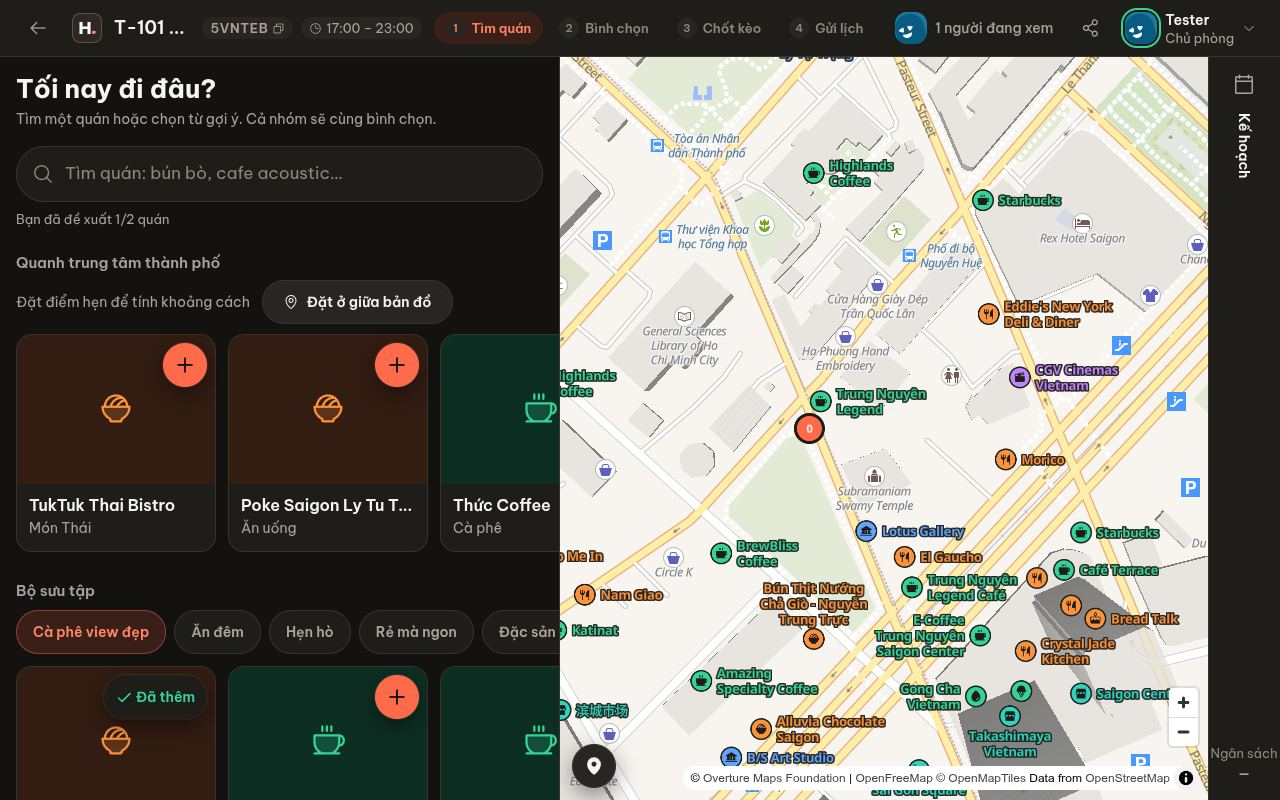
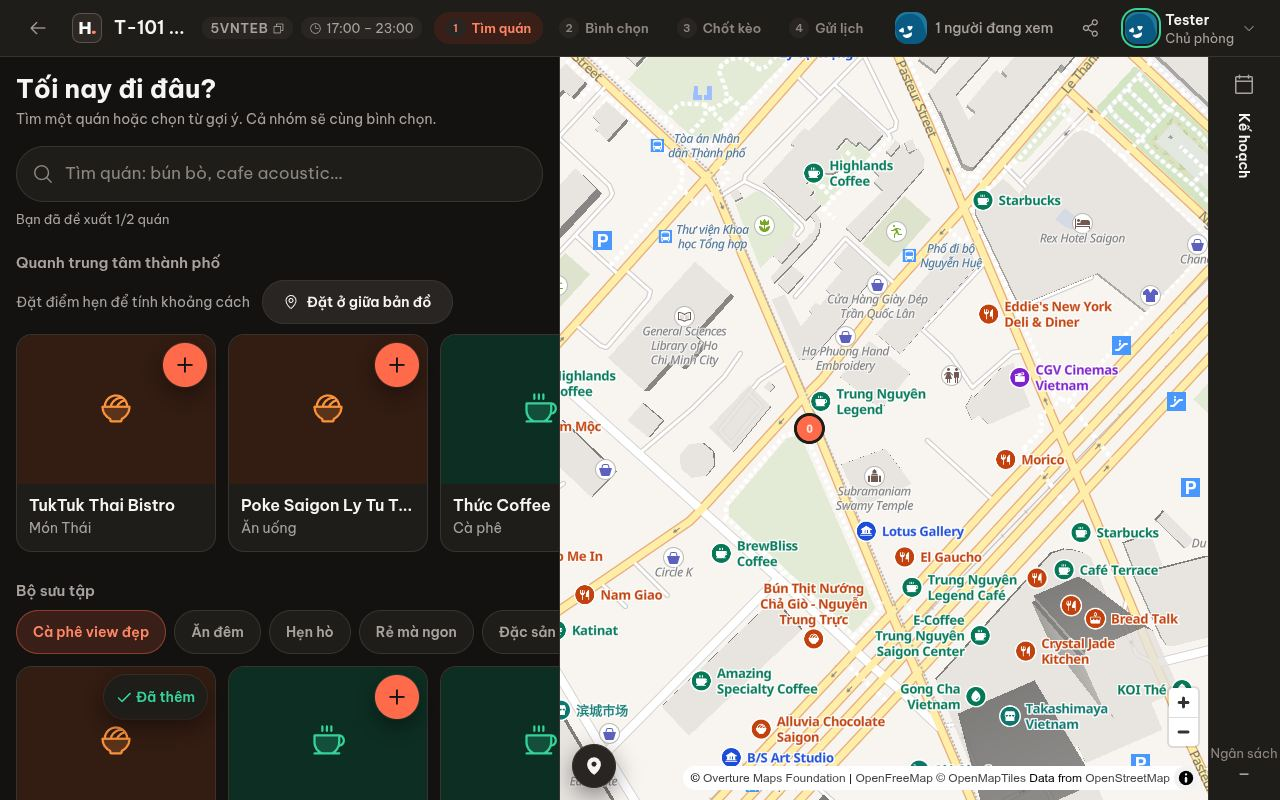
fix(T-101): lop quan giu bang mau sang ca theme toi (nguoi dung chot), anh dark chup lai; them task T-104 lam sach du lieu quan

diff --git a/frontend/src/components/map/PoiLayer.ts b/frontend/src/components/map/PoiLayer.ts
@@ -203,8 +203,20 @@ export function poiLayerFilters(selectedId: string | null): Record<string, Filte
   };
 }
 
-function themeColors() {
-  return { category: getDynamicCategoryColors(), surface: getCssColor('--color-surface', '#FFFFFF') };
+/**
+ * Màu lớp quán trên bản đồ: LUÔN bảng màu sáng (màu loại đậm, glyph + viền chữ trắng) ở cả hai theme — nền Liberty
+ * không đổi theo theme nên chữ sáng viền tối ở theme tối trông nặng (người dùng chốt "giữ trắng" 2026-11-15).
+ */
+const MAP_COLORS = { category: CATEGORY_COLORS, surface: '#FFFFFF' };
+
+/** Màu chữ tên quán theo category (bảng sáng cố định). */
+function mapTextColor(): ExpressionSpecification {
+  return [
+    'match',
+    ['get', 'category'],
+    ...Object.entries(CATEGORY_COLORS).flat(),
+    CATEGORY_COLORS.OTHER,
+  ] as unknown as ExpressionSpecification;
 }
 
 export interface InstallPoiLayerOptions {
@@ -218,12 +230,12 @@ export function installPoiLayer(
   options: InstallPoiLayerOptions = {},
 ): void {
   hideBasemapPois(map);
-  const colors = themeColors();
+  const colors = MAP_COLORS;
   registerPoiImages(map, colors);
 
   map.addSource(POI_SOURCE, { type: 'geojson', data: poisToGeoJSON([]) });
   const filters = poiLayerFilters(null);
-  const textColor = buildColorExpression();
+  const textColor = mapTextColor();
 
   map.addLayer({
     id: POI_DOT_LAYER,
@@ -347,16 +359,9 @@ export function highlightPoi(map: MapLibreMap, externalId: string | null): void 
 }
 
 /**
- * Đổi giao diện sáng/tối: dựng lại ảnh icon theo CSS variables hiện tại + màu chữ/halo.
+ * Đổi giao diện sáng/tối: lớp quán giữ bảng màu sáng cố định (`MAP_COLORS`) nên không có gì để đổi. Giữ hàm để
+ * MapView gọi chung với các lớp khác; nếu sau này nền bản đồ có bản tối thì dựng lại ảnh + màu chữ ở đây.
  */
 export function updatePoiLayerTheme(map: MapLibreMap): void {
-  if (!map.isStyleLoaded()) return;
-  const colors = themeColors();
-  registerPoiImages(map, colors);
-  const textColor = buildColorExpression();
-  for (const layer of [POI_ICON_LAYER, POI_SELECTED_LAYER]) {
-    if (!map.getLayer(layer)) continue;
-    map.setPaintProperty(layer, 'text-color', textColor);
-    map.setPaintProperty(layer, 'text-halo-color', colors.surface);
-  }
+  void map;
 }

diff --git a/frontend/src/components/map/poiIcons.ts b/frontend/src/components/map/poiIcons.ts
@@ -4,7 +4,8 @@ import type { PlaceCategory, PoiKind } from '../../types';
 /**
  * Ảnh icon cho lớp quán trên bản đồ (T-101, MAP-POI §4): dựng lúc chạy từ path SVG Phosphor (bản `fill`,
  * khung 256×256, chép từ `@phosphor-icons/react` 2.1.10 — cùng bộ với `ui/Icon.tsx`) → canvas → `map.addImage`.
- * Vẽ bằng `Path2D` nên đồng bộ, không phải chờ ảnh tải. Đổi theme thì gọi lại `registerPoiImages` (updateImage).
+ * Vẽ bằng `Path2D` nên đồng bộ, không phải chờ ảnh tải. Màu do PoiLayer truyền vào (hiện cố định bảng sáng);
+ * gọi lại `registerPoiImages` với màu mới thì ảnh được `updateImage`.
  */
 
 /** Path Phosphor (weight fill, viewBox 0 0 256 256). */
@@ -119,7 +120,7 @@ export const PIN_H = 38;
 export interface PoiIconColors {
   /** Màu loại theo category (nền vòng/ghim). */
   category: Record<PlaceCategory, string>;
-  /** Màu icon + viền (surface: trắng ở theme sáng, nâu tối ở theme tối — luôn tương phản với màu loại). */
+  /** Màu glyph + viền (trắng). */
   surface: string;
 }
 

diff --git a/frontend/src/__tests__/poi_layer.test.ts b/frontend/src/__tests__/poi_layer.test.ts
@@ -180,6 +180,22 @@ describe('installPoiLayer', () => {
     expect(Object.values(layers).every((l) => l.type === 'symbol')).toBe(true);
   });
 
+  it('màu cố định bảng sáng (chữ viền trắng) dù theme tối', () => {
+    // Theme tối: mọi CSS variable trả màu tối — lớp quán không được đọc theo
+    vi.stubGlobal('window', {});
+    vi.stubGlobal('document', { documentElement: {} });
+    vi.stubGlobal('getComputedStyle', () => ({ getPropertyValue: () => '31 29 26' }));
+    try {
+      const { map, layers } = fakeMap({});
+      installPoiLayer(map, vi.fn());
+      const icon = layers[POI_ICON_LAYER] as unknown as { paint: Record<string, unknown> };
+      expect(icon.paint['text-halo-color']).toBe('#FFFFFF');
+      expect(JSON.stringify(icon.paint['text-color'])).toContain('#C2410C');
+    } finally {
+      vi.unstubAllGlobals();
+    }
+  });
+
   it('bấm: chấm sát điểm bấm thắng icon bên cạnh; icon thắng khi bấm trúng icon', () => {
     const { map, fire } = fakeMap({
       [POI_ICON_LAYER]: [{ id: 'icon', at: [100, 100] }],

diff --git a/docs/phase7/tasks/T-104.md b/docs/phase7/tasks/T-104.md
@@ -1,0 +1,51 @@
+# T-104: Làm sạch dữ liệu quán — sai vị trí, sai loại, trùng mốc lớn
+
+- **Phụ thuộc:** T-100 DONE (T-101 DONE để kiểm bằng ảnh bản đồ) · **Đợt:** sau MVP (làm trước nếu kịp, chỉ đổi snapshot)
+- **Đọc:** `docs/phase7/MAP-POI.md` §3, §8, §9 · `scripts/build_places.py` · `backend/app/domain/patterns/category_detector/osm_mapping.py`
+  (`OVERTURE_KIND`, `overture_kind`, `osm_kind`) · test backend của `build_places`/`osm_mapping`
+- **Model gợi ý:** Opus 5.5 · high · **Ước lượng:** ~120k
+
+## Lỗi đã thấy (người dùng yêu cầu sửa triệt để, 2026-11-15)
+Kiểm trên `places_hcm.json.gz` hiện tại (46 821 quán):
+1. **Sai vị trí.** `ovt:14b02cea-…` "Vincom Center Đồng Khởi" (kind `mall`, score 72, `minzoom` 14) nằm ở **10,848 / 106,775 (Thủ Đức)**,
+   address "Đường Lê Thánh Tôn, Thủ Đức", website `phanngocloi.com` — bản ghi Overture rác. Vincom Đồng Khởi thật ở Q1
+   (72 Lê Thánh Tôn, ~10,778 / 106,702; đã có "Vincom Center" 10,776 / 106,702 và hàng chục quán bên trong ghi "Vincom Đồng Khởi").
+   Vì là mall điểm cao nên hiện ngay từ z14 ở Thủ Đức (ảnh `docs/phase7/screens/map-poi/thuduc-z15-*`).
+2. **Sai loại `supermarket`.** 1 441 quán `supermarket`, **847** có tên không giống siêu thị. Nguồn chính: `grocery_store → supermarket`
+   (`osm_mapping.py` dòng ~99). Ví dụ: Circle K (cửa hàng tiện lợi — MAP-POI §3.1 đã loại), "Cà Phê Ông Bầu", "Hòn Đất Coffee",
+   "Nhan Cafe", "Sinh tố…" (phải là cafe/tea), "The Crescent Mall" (phải là mall), "Chợ Hoa Cau" (chợ — không lấy),
+   L'angfarm/Homefarm/hải sản/yến sào/sữa/đặc sản (cửa hàng chuyên doanh — không phải nơi đi chơi), "Điện Máy Xanh",
+   "Bảo Việt Nhân Thọ", "BRT Việt Nam", "Viễn Thông…", "Công Ty TNHH…" (không phải quán).
+3. **Trùng mốc lớn.** Một mall nhiều bản ghi tên khác nhau vài chục mét: "Vincom Mega Mall - Thao Dien", "TTTM Vincom Mega Mall Thảo Điền,
+   161 Xa Lộ Hà Nội…" (tên là cả địa chỉ), "Vincom Megamall Thảo Điền"; "Vincom Plaza Cộng Hoà" + "Tttm Vincom CỘNg HÒA, 15-17…".
+   Luật gộp T-100 (cùng tên chuẩn hoá < 50 m, tiền tố tên) không bắt được.
+
+## Việc
+- **Không vá tay từng quán là chính** — viết luật trong `build_places.py`, chạy lại build, đo lại. Ca luật không bắt được mới vào
+  file ghi đè `scripts/places_overrides.json` (`drop: [id]`, `kind: {id: kind}`, `move: {id: [lat, lng]}`, mỗi dòng có lý do).
+- **Vị trí:** cờ nghi ngờ khi (a) `address`/tên chứa tên quận/TP khác hẳn `district` tính từ toạ độ, hoặc (b) cùng `brand_key`/tên
+  chuẩn hoá của một mốc lớn (mall/cinema/museum/park) xuất hiện ở hai nơi cách > 2 km mà một bên có tên địa danh của bên kia
+  ("Đồng Khởi", "Thảo Điền"…). Bản ghi bị cờ: bỏ nếu chỉ có Overture và không khớp OSM; còn lại ghi báo cáo để duyệt.
+- **Loại:** `grocery_store`/`organic_grocery_store` chỉ thành `supermarket` khi brand/tên thuộc danh sách siêu thị (Co.op, Bách Hoá Xanh,
+  WinMart, Lotte, AEON, GO!, Emart, Mega/MM, Kingfood, Satra, Annam, Nam An, Fuji, Tops, Big C…) hoặc OSM `shop=supermarket`;
+  còn lại xét tên (cafe/coffee/cà phê → `cafe`; trà/sinh tố/juice → `tea`; mall/TTTM/plaza → `mall`) hoặc **bỏ**. Loại hẳn cửa hàng
+  tiện lợi (Circle K, FamilyMart, Ministop, GS25, 7-Eleven, B's mart… — theo brand, cả ở kind khác), chợ, công ty, điện máy,
+  viễn thông, bảo hiểm. Rà tương tự các kind khác bằng mẫu ngẫu nhiên (≥ 50 quán/kind) — ghi tỉ lệ sai trước/sau.
+- **Trùng:** với mốc lớn, gộp khi cùng kind + cách < 150 m + tên chuẩn hoá chung ≥ 2 từ có nghĩa (bỏ "TTTM/Trung tâm thương mại",
+  số nhà/đường phía sau dấu phẩy). Tên là cả địa chỉ → cắt phần sau dấu phẩy đầu.
+- **Id:** quán bị bỏ/gộp mà id từng xuất hiện ở snapshot trước → vào `aliases`/`retired` như T-100 để `/pois/{id}` cũ không 404.
+- Thêm chế độ `--audit` (hoặc `scripts/audit_places.py`) in ra: số cờ vị trí, phân bố kind theo nguồn Overture category,
+  danh sách tên nghi ngờ mỗi kind — chạy được lại sau mỗi lần build. Làm cho cả **HCM và HN**.
+
+## Được phép tạo/sửa
+- `scripts/build_places.py`, file mới `scripts/places_overrides.json`, `scripts/audit_places.py` (nếu tách)
+- `backend/app/domain/patterns/category_detector/osm_mapping.py` (bảng kind), `backend/app/data/places_{hcm,hn}.json.gz`
+- test backend liên quan (`backend/tests/**` cho build/osm_mapping/poi_service), `docs/phase7/MAP-POI.md` (§10 mới), `docs/phase7/PROGRESS.md`
+
+## Tiêu chí hoàn thành
+- "Vincom Center Đồng Khởi" chỉ còn ở Q1; mỗi mall Vincom/AEON/Lotte/Crescent… ở HCM đúng **một** bản ghi (in danh sách vào PROGRESS).
+- `supermarket`: 0 cửa hàng tiện lợi; mẫu ngẫu nhiên 100 quán ≥ 95 % đúng là siêu thị (ghi tên mẫu vào MAP-POI §10). Không còn
+  cửa hàng tiện lợi ở bất kỳ kind nào.
+- Báo cáo audit trước/sau (số quán mỗi kind, số cờ vị trí) trong MAP-POI §10; tìm "phuc long", "vincom", "bach hoa xanh" vẫn ra đúng.
+- Mọi id `osm:*` của snapshot cũ vẫn tra được (như T-100). RSS backend không tăng. Ảnh bản đồ Thủ Đức z15 + Q1 z13 chụp lại.
+- `ruff` + `pytest` xanh (Postgres thật); FE không đổi.

diff --git a/docs/phase7/MAP-POI.md b/docs/phase7/MAP-POI.md
@@ -164,8 +164,8 @@ RAM: ≈ 39k bản ghi (+ OSM bù) trong RAM ở bước A — dùng `@dataclass
 - **Lưới/N §3.3 giữ nguyên**: ảnh thật khung 650×740 (desktop) có z13 Q1 28 icon / Thủ Đức 20; z15 50 / 32 icon + ~320 / 420
   chấm; z17 32 / 18 icon (va chạm tự lọc). Không quá dày hay trống. Ảnh: `docs/phase7/screens/map-poi/` (24 ô
   {q1, thuduc} × {z13, z15, z17} × {light, dark} × {desktop, 390} + 2 ảnh ghim đang chọn z16).
-- **Lỗi dữ liệu thấy trên ảnh (chưa sửa, việc của script/T-102)**: một quán tên "Vincom Center Đồng Khởi" nằm ở Thủ Đức
-  (gần 10,85 / 106,78 — bản ghi Overture lệch chỗ hoặc sai tên); "Nông sản sạch Tây Nguyên", "Yến sào Khánh Hoà" ra kind
-  `supermarket` (từ `grocery_store`).
-- **Theme tối**: nền Liberty vẫn sáng, nên chữ màu loại sáng + viền chữ tối trông đậm/"dán nhãn". Đúng §4 (đổi theme thì dựng
-  lại màu) — người dùng xem ảnh `*-dark-*` ở G3 rồi chọn có giữ bảng màu sáng cho riêng lớp bản đồ hay không.
+- **Lỗi dữ liệu thấy trên ảnh** → task riêng **T-104** (`tasks/T-104.md`): "Vincom Center Đồng Khởi" (Overture, website lạ) nằm ở
+  Thủ Đức; 847/1 441 quán `supermarket` có tên không phải siêu thị (Circle K, cafe, đặc sản, công ty — từ `grocery_store`); mall trùng.
+- **Theme tối — người dùng chốt "giữ trắng" (2026-11-15)**: nền Liberty không đổi theo theme, nên lớp quán luôn dùng bảng màu sáng
+  (`MAP_COLORS` trong `PoiLayer.ts`: `CATEGORY_COLORS` đậm, glyph + viền chữ `#FFFFFF`) ở cả hai theme; không dựng lại ảnh khi đổi
+  theme (lệch §4 "đổi theme thì dựng lại"). Ảnh `*-dark-*` đã chụp lại.
